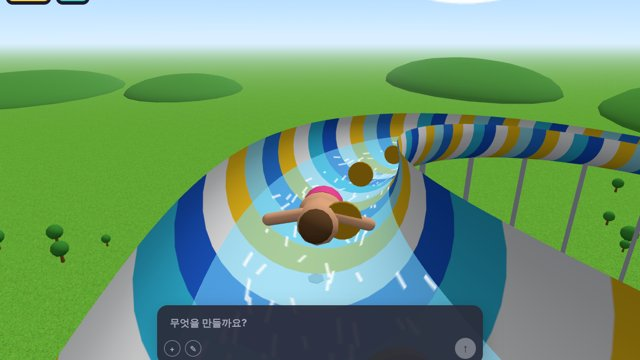
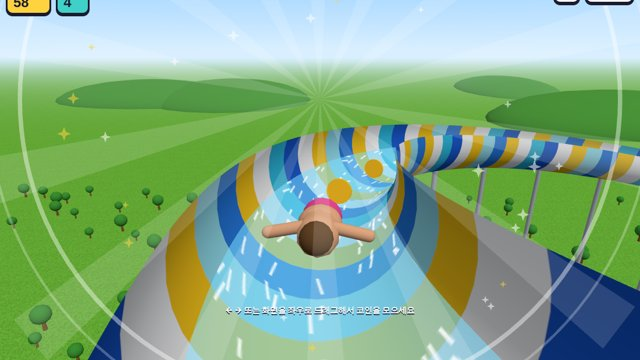
두 슬라이드 게임을 완성 버전으로 교체 (바로 플레이)
Claude-Session: https://claude.ai/code/session_016fMKs9r5tx4oW9bQCSMowB

diff --git a/games/night-slide/index.html b/games/night-slide/index.html
@@ -48,6 +48,14 @@ html,body{height:100%;overflow:hidden;background:#0b0d1a;font-family:"Noto Sans 
 #hint{position:fixed;left:50%;bottom:118px;transform:translateX(-50%);color:#fff;font-weight:900;text-shadow:0 0 8px var(--neon);font-size:14px;opacity:0;transition:opacity .3s;z-index:5;pointer-events:none;white-space:nowrap}
 #hint.on{opacity:1}
 @media (max-width:520px){.stat b{font-size:20px}.btn{font-size:12px;padding:5px 9px}#prog{top:60px;width:60vw}}
+
+#start{position:fixed;inset:0;display:grid;place-items:center;z-index:9;background:rgba(0,0,0,.35)}
+#start.off{display:none}
+#start .box{text-align:center}
+#start h1{font-family:"Black Han Sans",sans-serif;font-size:clamp(40px,9vw,80px);color:#fff;-webkit-text-stroke:3px #1b1b2f;paint-order:stroke fill;text-shadow:0 6px 0 #1b1b2f;margin-bottom:18px}
+#start p{color:#fff;font-weight:700;text-shadow:0 2px 0 #1b1b2f;margin-bottom:22px;font-size:15px}
+#go{font-family:"Black Han Sans",sans-serif;font-size:34px;padding:12px 44px;border-radius:999px;border:4px solid #1b1b2f;background:#ffd23f;color:#1b1b2f;box-shadow:0 6px 0 #1b1b2f;cursor:pointer}
+#go:active{transform:translateY(4px);box-shadow:0 2px 0 #1b1b2f}
 </style>
 </head>
 <body>
@@ -63,6 +71,7 @@ html,body{height:100%;overflow:hidden;background:#0b0d1a;font-family:"Noto Sans 
 <div id="hint">← → 또는 화면을 좌우로 드래그해서 코인을 모으세요</div>
 <div id="bar"><form id="f" autocomplete="off"><input id="q" placeholder="무엇을 만들까요?" maxlength="40" enterkeyhint="send"></form>
   <div class="row"><span class="ic">+</span><span class="ic">✎</span><button id="send" form="f" type="submit" aria-label="보내기">↑</button></div></div>
+<div id="start"><div class="box"><h1>야경 스카이슬라이드</h1><p>← → 키 또는 화면을 좌우로 드래그해 코인을 모으고<br>수영장 정중앙에 착지하세요</p><button id="go">출발!</button></div></div>
 <div id="result"><div class="card"><h2 id="rt">정중앙!!</h2><ul id="rl"></ul><button class="btn" id="again">다시 타기</button><button class="btn" id="reset">처음부터</button></div></div>
 
 <script type="module">
@@ -360,6 +369,17 @@ function loop(now){const dt=Math.min(.1,(now-last)/1000);last=now;
   renderer.render(scene,camera);drawFx(now);requestAnimationFrame(loop)}
 requestAnimationFrame(loop);
 window.__game={handle,st,ride,L,landing,POOL,bursts};
+/* ---------- 완성 버전: 처음부터 다 만들어진 상태 ---------- */
+night.visible=true;starDome.material.opacity=1;pano.material.opacity=1;scene.background.copy(BG_NIGHT);hemi.intensity=.25;sun.intensity=.1;moon.intensity=.5;scene.fog=new THREE.Fog(0x070a18,600,3200);
+buildings.visible=roadLights.visible=true;groundMat.map=null;groundMat.color.set(0x0a0c16);groundMat.needsUpdate=true;setBuildings(1);
+slide.visible=tower.visible=true;[neonL,neonR,neonB].forEach(m=>{m.visible=true;m.geometry.setDrawRange(0,m.userData.full)});slide.geometry.setDrawRange(0,slide.userData.full);
+waterMesh.visible=true;waterMesh.geometry.setDrawRange(0,waterMesh.userData.full);
+rider.visible=true;placeRider(0,0);coinGroup.visible=true;pool.visible=true;
+Object.assign(st,{night:1,city:1,slide:1,water:1,rider:1,coin:1,pool:1,lightning:1});lightningT=3;
+{const f=frameAt(1);camera.position.copy(f.p.clone().addScaledVector(f.t,9).addScaledVector(f.b,-2.5).add(new THREE.Vector3(0,3,0)));camLook.copy(rider.position);camera.lookAt(camLook)}
+$("bar").style.display="none";$("demo").style.display="none";
+$("go").onclick=()=>{audio();setSound(true);$("start").classList.add("off");startRide()};
+$("reset").onclick=()=>{$("result").classList.remove("on");$("start").classList.remove("off")};
 </script>
 </body>
 </html>

diff --git a/games/mega-waterslide/index.html b/games/mega-waterslide/index.html
@@ -54,6 +54,14 @@ html,body{height:100%;overflow:hidden;background:#3a3d48;font-family:"Noto Sans 
 #hint{position:fixed;left:50%;bottom:118px;transform:translateX(-50%);color:#fff;font-weight:900;text-shadow:0 2px 0 #1b1b2f;font-size:14px;opacity:0;transition:opacity .3s;z-index:5;pointer-events:none;white-space:nowrap}
 #hint.on{opacity:1}
 @media (max-width:520px){.stat b{font-size:20px}.btn{font-size:12px;padding:5px 9px}#prog{top:60px;width:60vw}}
+
+#start{position:fixed;inset:0;display:grid;place-items:center;z-index:9;background:rgba(0,0,0,.35)}
+#start.off{display:none}
+#start .box{text-align:center}
+#start h1{font-family:"Black Han Sans",sans-serif;font-size:clamp(40px,9vw,80px);color:#fff;-webkit-text-stroke:3px #1b1b2f;paint-order:stroke fill;text-shadow:0 6px 0 #1b1b2f;margin-bottom:18px}
+#start p{color:#fff;font-weight:700;text-shadow:0 2px 0 #1b1b2f;margin-bottom:22px;font-size:15px}
+#go{font-family:"Black Han Sans",sans-serif;font-size:34px;padding:12px 44px;border-radius:999px;border:4px solid #1b1b2f;background:#ffd23f;color:#1b1b2f;box-shadow:0 6px 0 #1b1b2f;cursor:pointer}
+#go:active{transform:translateY(4px);box-shadow:0 2px 0 #1b1b2f}
 </style>
 </head>
 <body>
@@ -68,6 +76,7 @@ html,body{height:100%;overflow:hidden;background:#3a3d48;font-family:"Noto Sans 
 <div id="hint">← → 또는 화면을 좌우로 드래그해서 코인을 모으세요</div>
 <div id="bar"><form id="f" autocomplete="off"><input id="q" placeholder="무엇을 만들까요?" maxlength="40" enterkeyhint="send"></form>
   <div class="row"><span class="ic">+</span><span class="ic">✎</span><button id="send" form="f" type="submit" aria-label="보내기">↑</button></div></div>
+<div id="start"><div class="box"><h1>메가 워터슬라이드</h1><p>← → 키 또는 화면을 좌우로 드래그해 코인을 모으고<br>수영장 정중앙에 착지하세요</p><button id="go">출발!</button></div></div>
 <div id="result"><div class="card"><h2 id="rt">정중앙!!</h2><ul id="rl"></ul><button class="btn" id="again">다시 타기</button><button class="btn" id="reset">처음부터</button></div></div>
 
 <script type="module">
@@ -357,6 +366,17 @@ function loop(now){const dt=Math.min(.1,(now-last)/1000);last=now;
   renderer.render(scene,camera);drawFx(now);requestAnimationFrame(loop)}
 requestAnimationFrame(loop);
 window.__game={handle,st,ride,L,landing,POOL,bursts};
+/* ---------- 완성 버전: 처음부터 다 만들어진 상태 ---------- */
+sky.visible=true;sky.material.opacity=1;scene.background.set(0xd9efff);scene.fog=new THREE.Fog(0xd9efff,350,1800);
+groundMat.map=grassTex;groundMat.needsUpdate=true;hills.visible=true;lakes.visible=true;trunkM.visible=leafM.visible=true;setTrees(1);
+slide.visible=tower.visible=pillarGroup.visible=true;slide.geometry.setDrawRange(0,slide.userData.full);
+waterMesh.visible=true;waterMesh.geometry.setDrawRange(0,waterMesh.userData.full);
+rider.visible=true;placeRider(0,0);coinGroup.visible=true;pool.visible=true;
+Object.assign(st,{sky:1,grass:1,lake:1,tree:1,slide:1,water:1,rider:1,coin:1,pool:1});
+{const f=frameAt(1);camera.position.copy(f.p.clone().addScaledVector(f.t,9).addScaledVector(f.b,-2.5).add(new THREE.Vector3(0,3.2,0)));camLook.copy(rider.position);camera.lookAt(camLook)}
+$("bar").style.display="none";$("demo").style.display="none";
+$("go").onclick=()=>{audio();setSound(true);$("start").classList.add("off");startRide()};
+$("reset").onclick=()=>{$("result").classList.remove("on");$("start").classList.remove("off")};
 </script>
 </body>
 </html>
